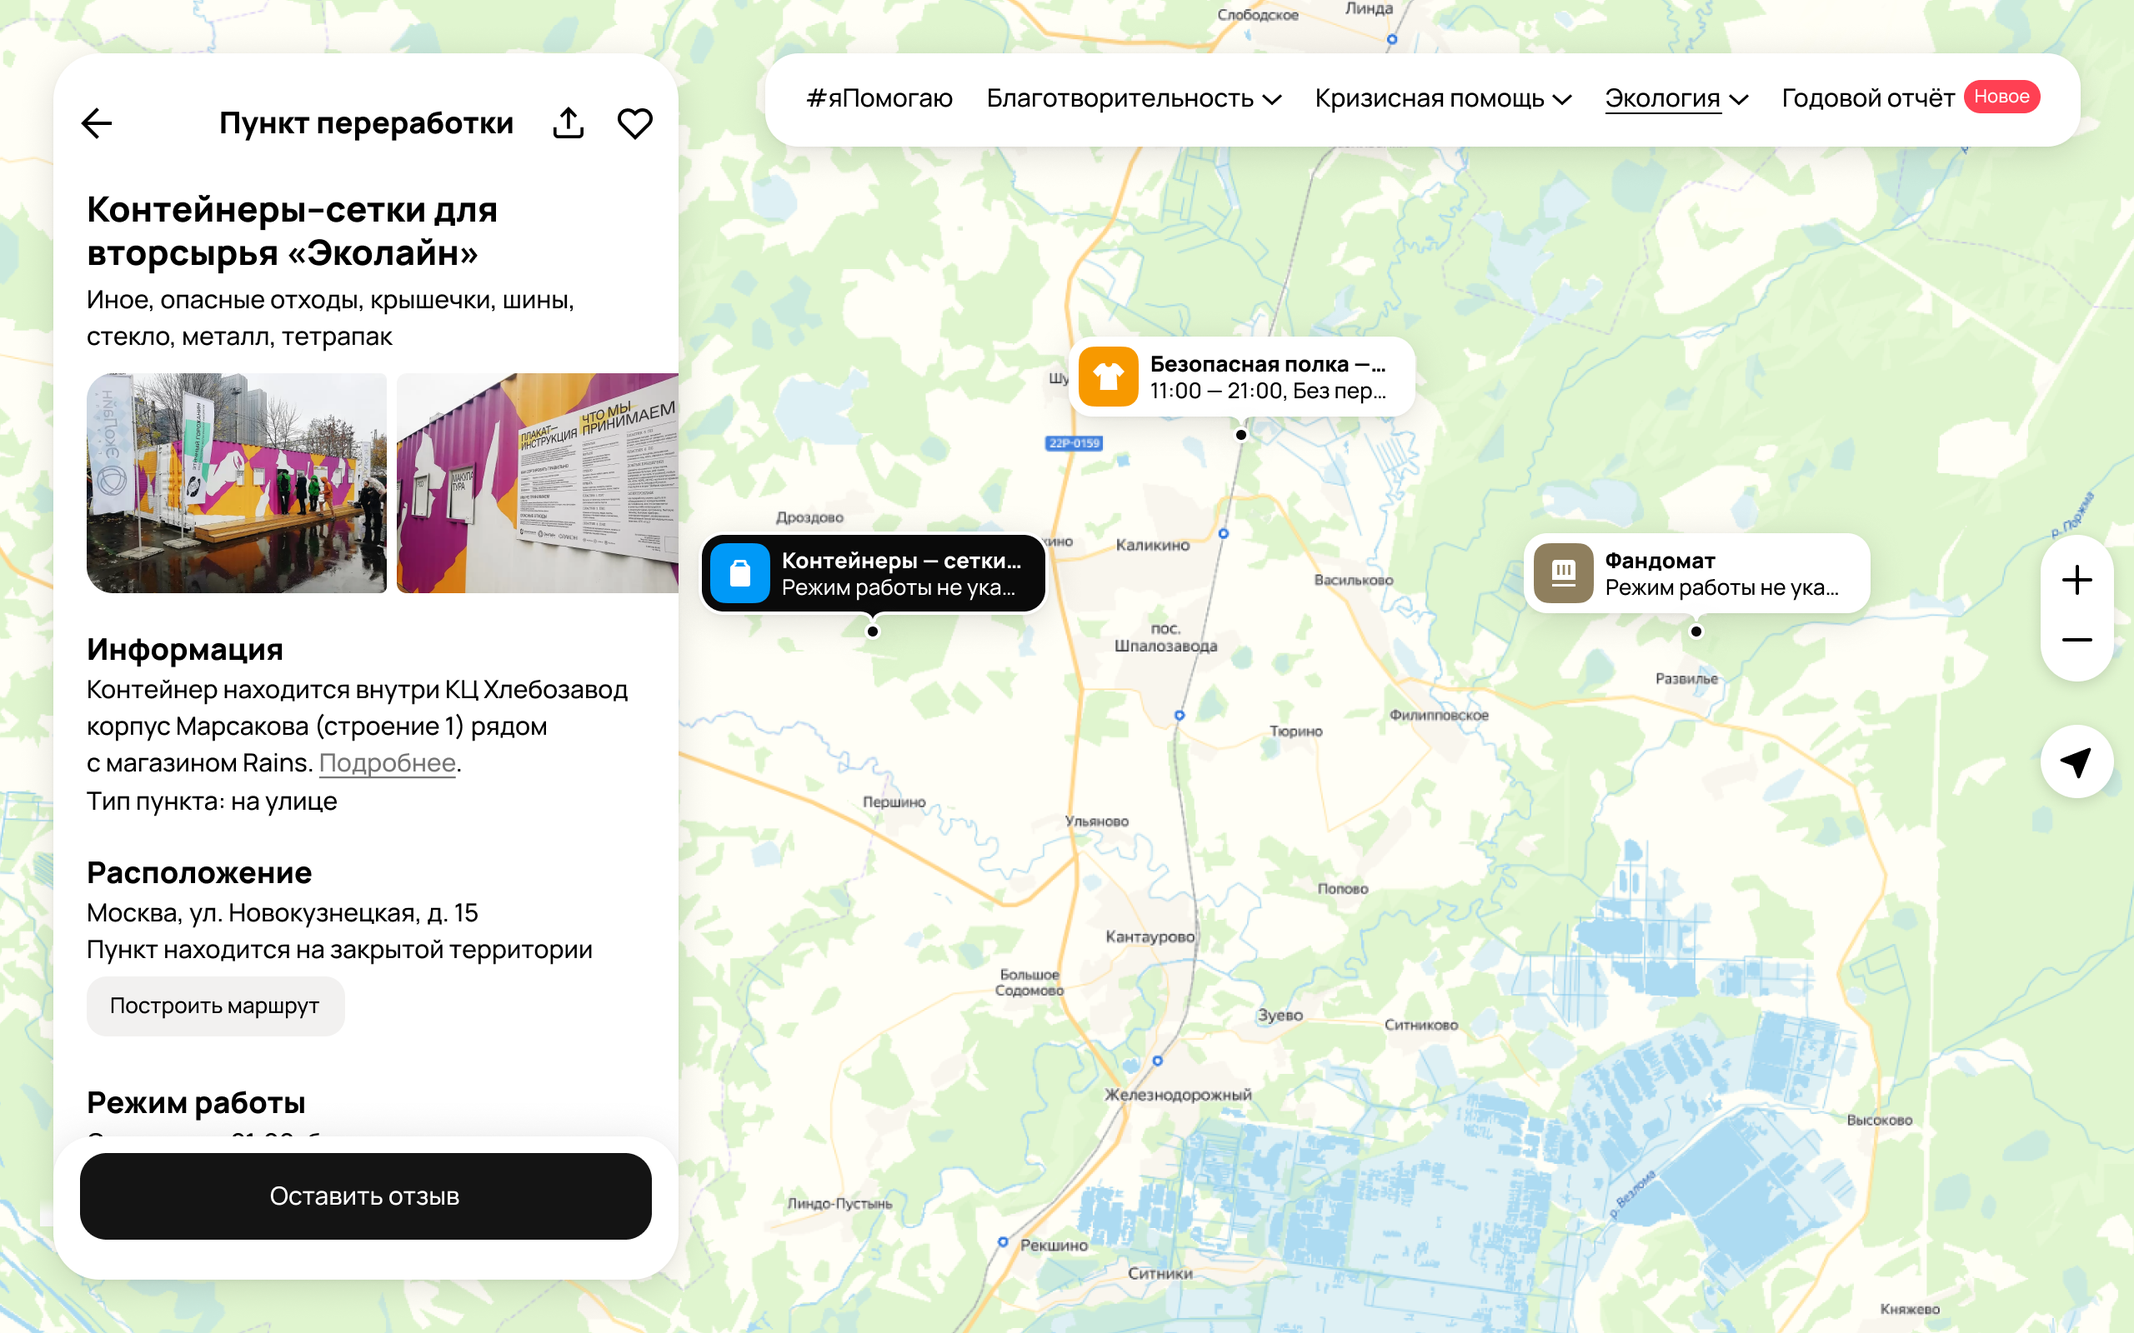
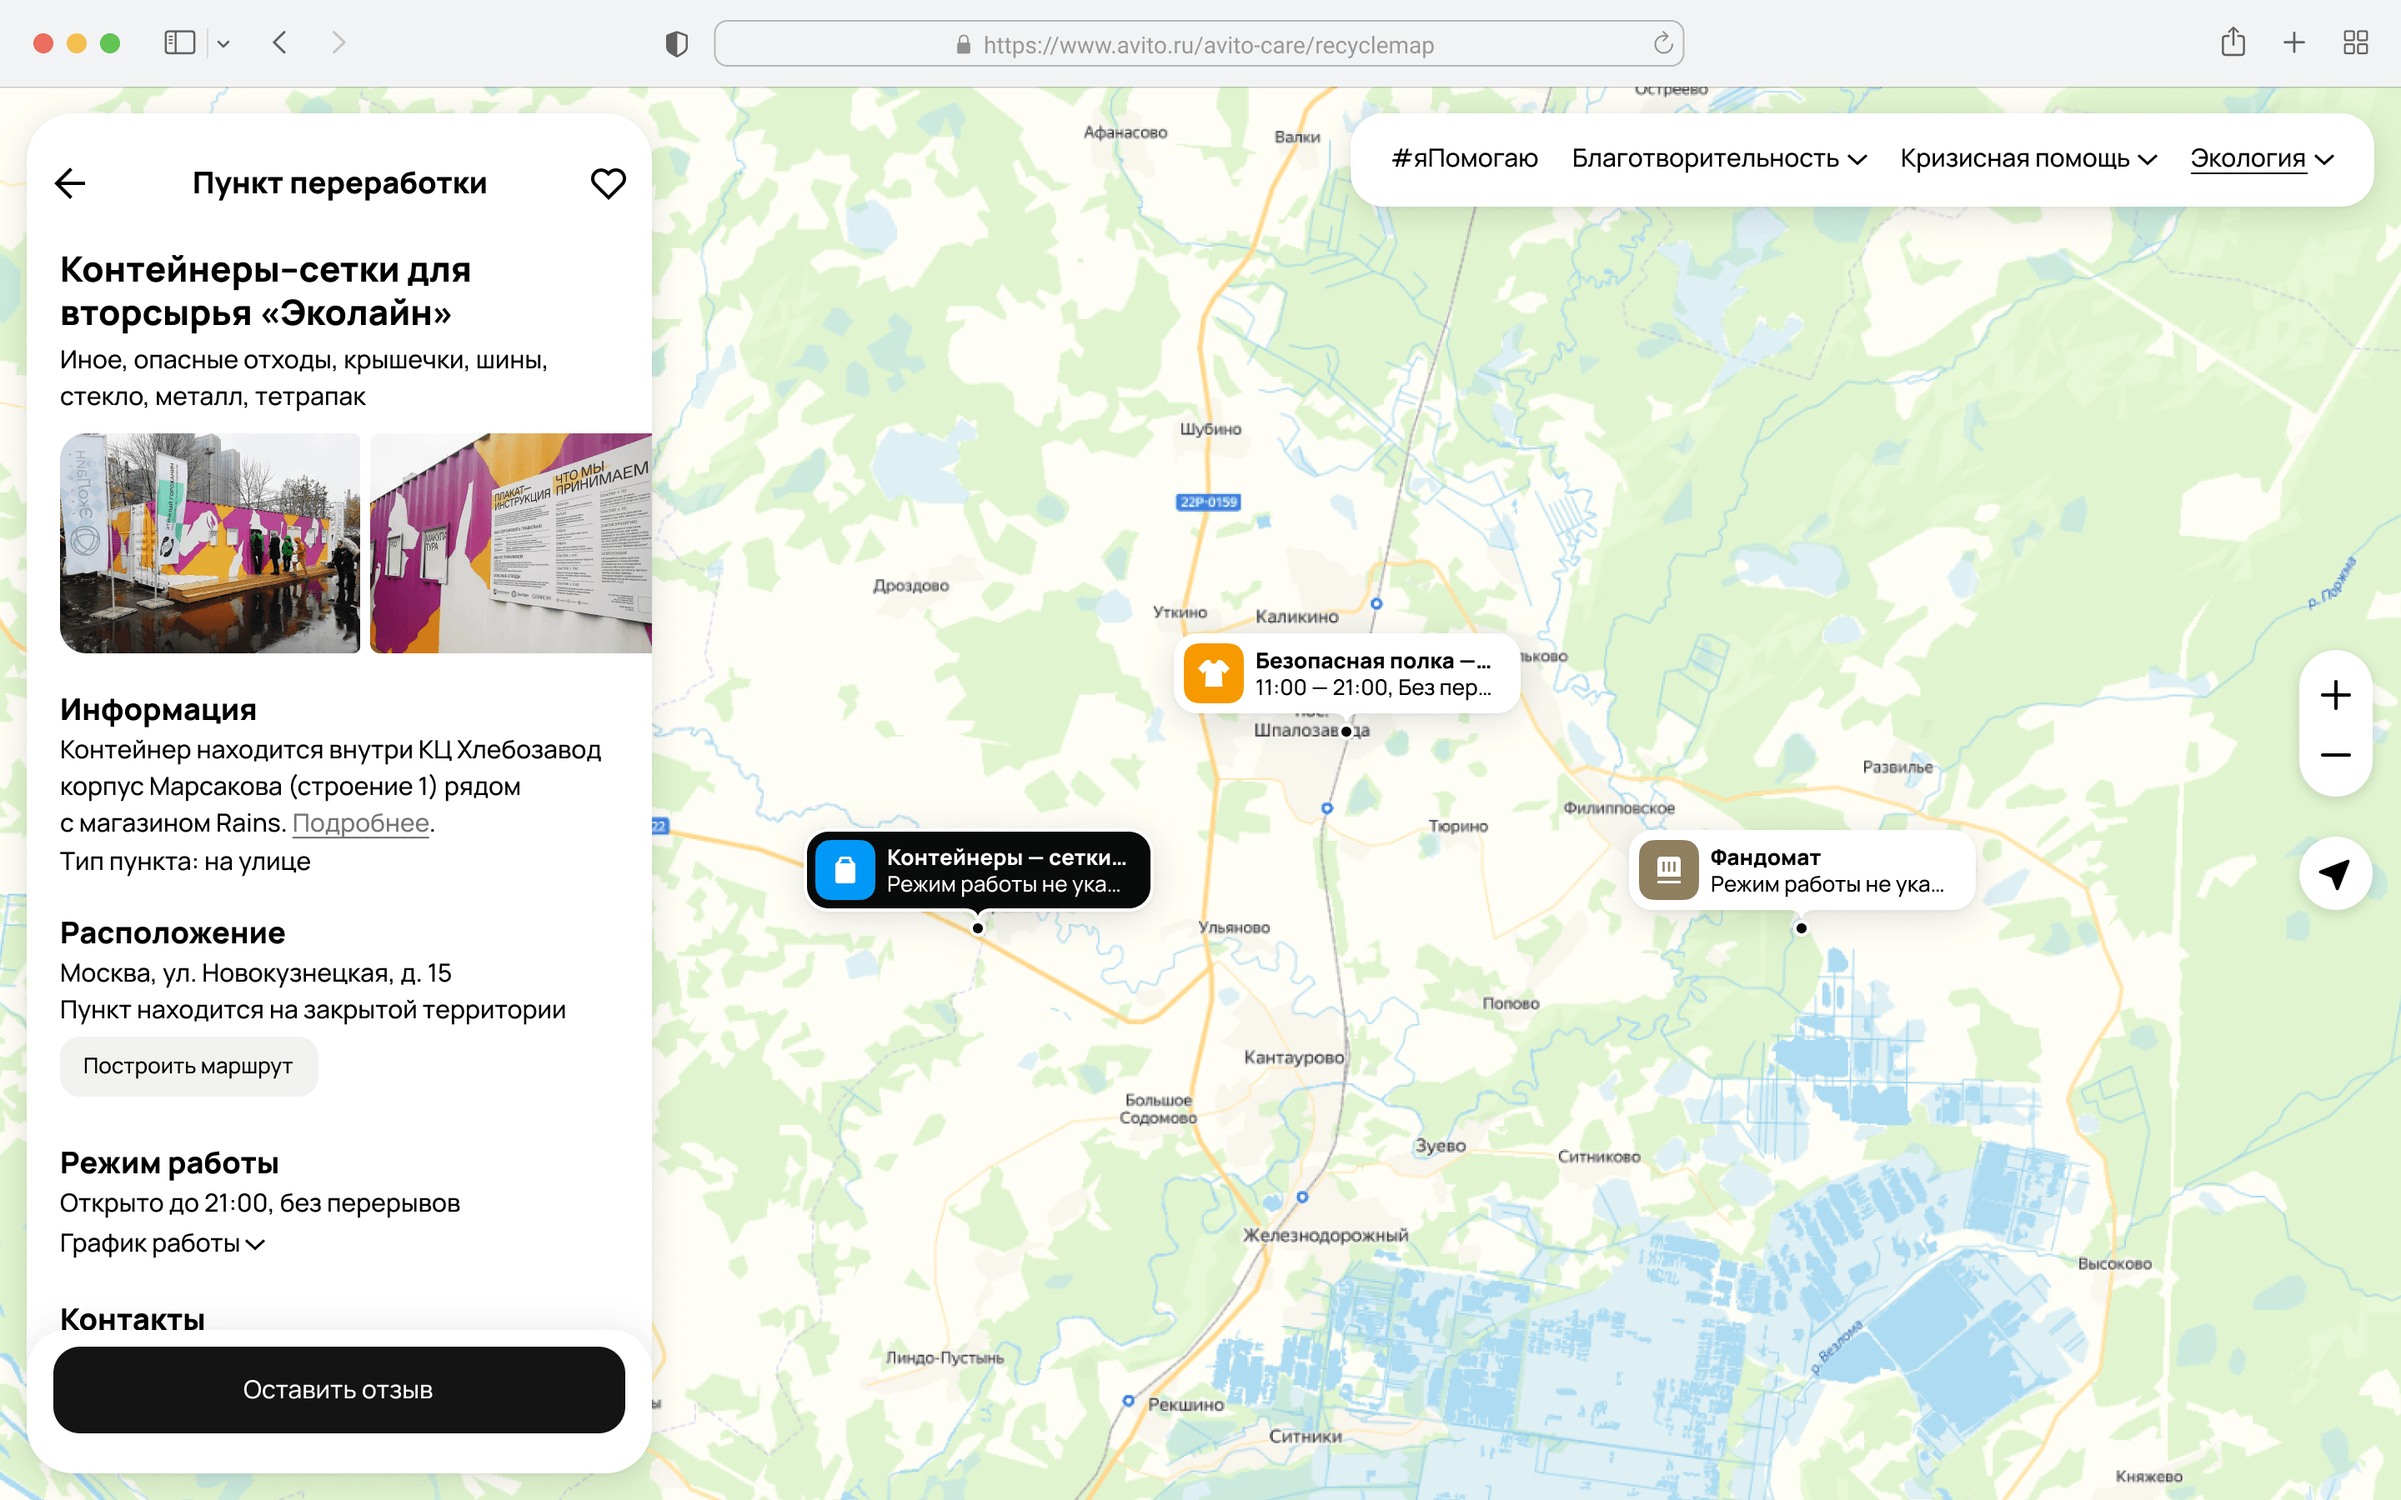
Replace the desktop place-card image on the recycling map case
Mobile keeps its own favs-mob image.

diff --git a/projects/avito-charity/recycle-map/index.html b/projects/avito-charity/recycle-map/index.html
@@ -472,7 +472,7 @@ body {
         <div class="case-cover__media case-cover__media--natural">
           <picture>
             <source media="(max-width: 640px)" srcset="media/favorites/favs-mob.webp" />
-            <img src="media/favorites/favs-desktop.webp" alt="Карточка пункта приёма и избранное на карте" loading="lazy" />
+            <img src="media/favorites/favs-desktop.webp?v=2" alt="Карточка пункта приёма и избранное на карте" loading="lazy" />
           </picture>
         </div>
 
